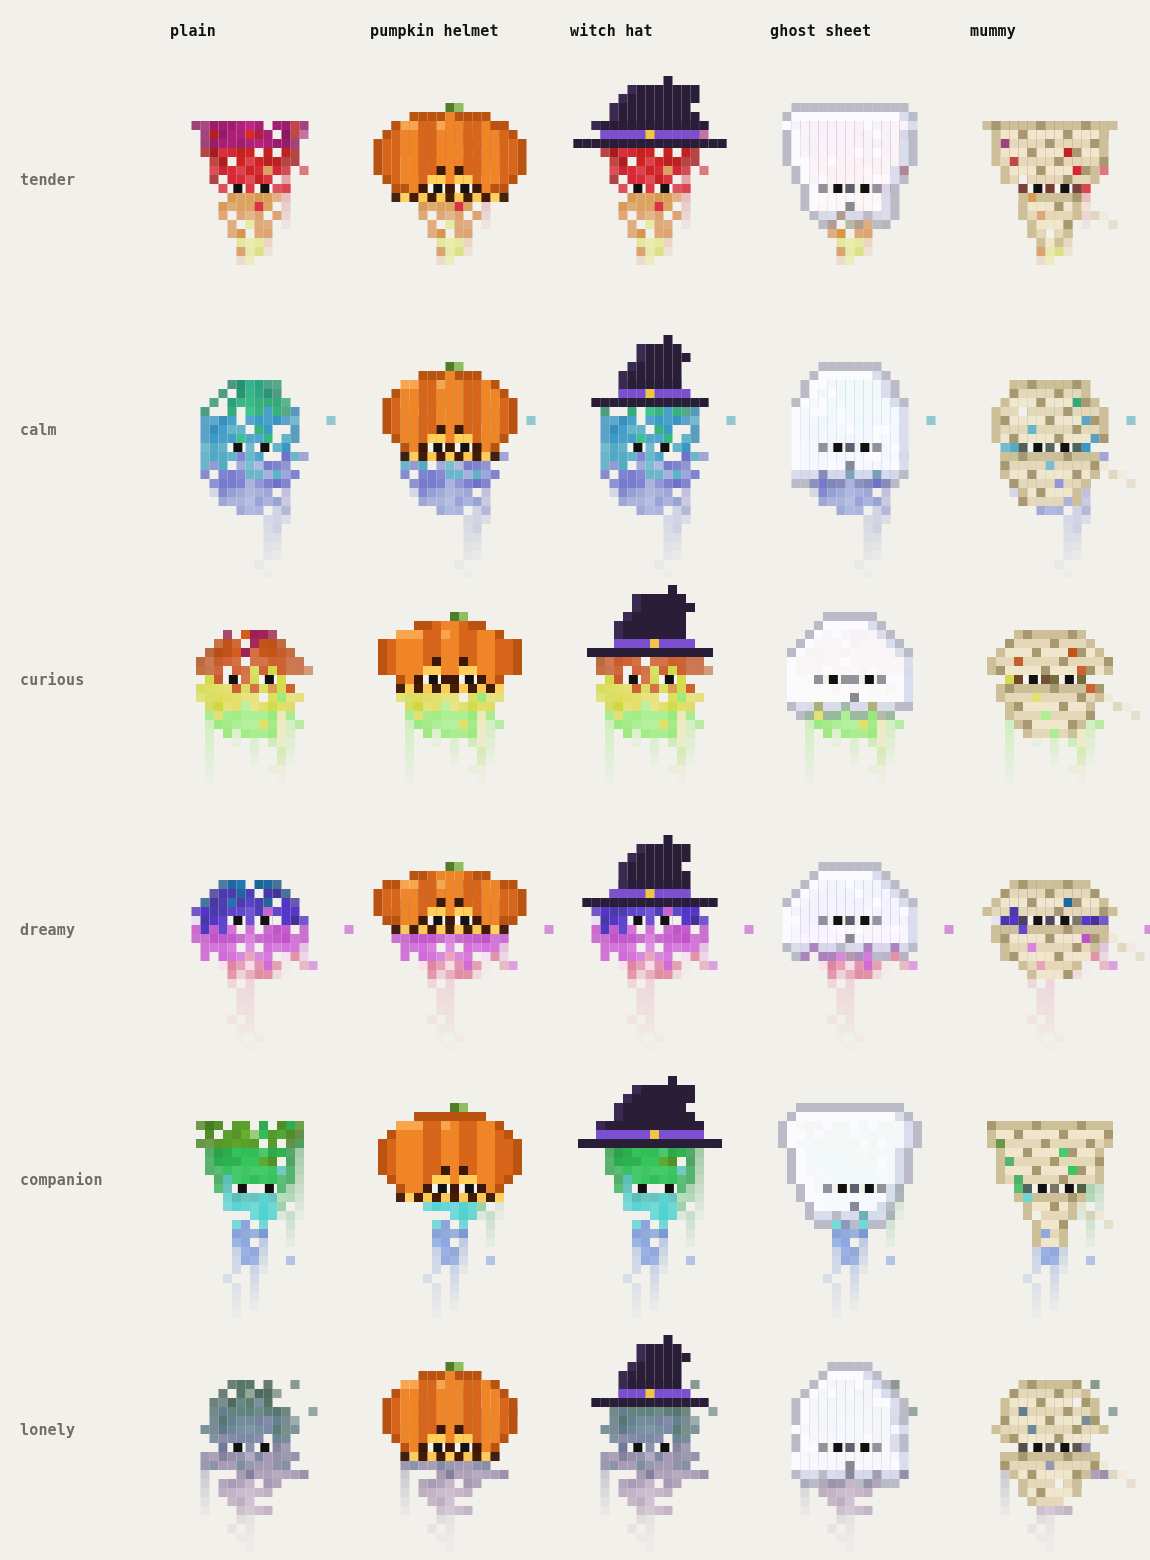
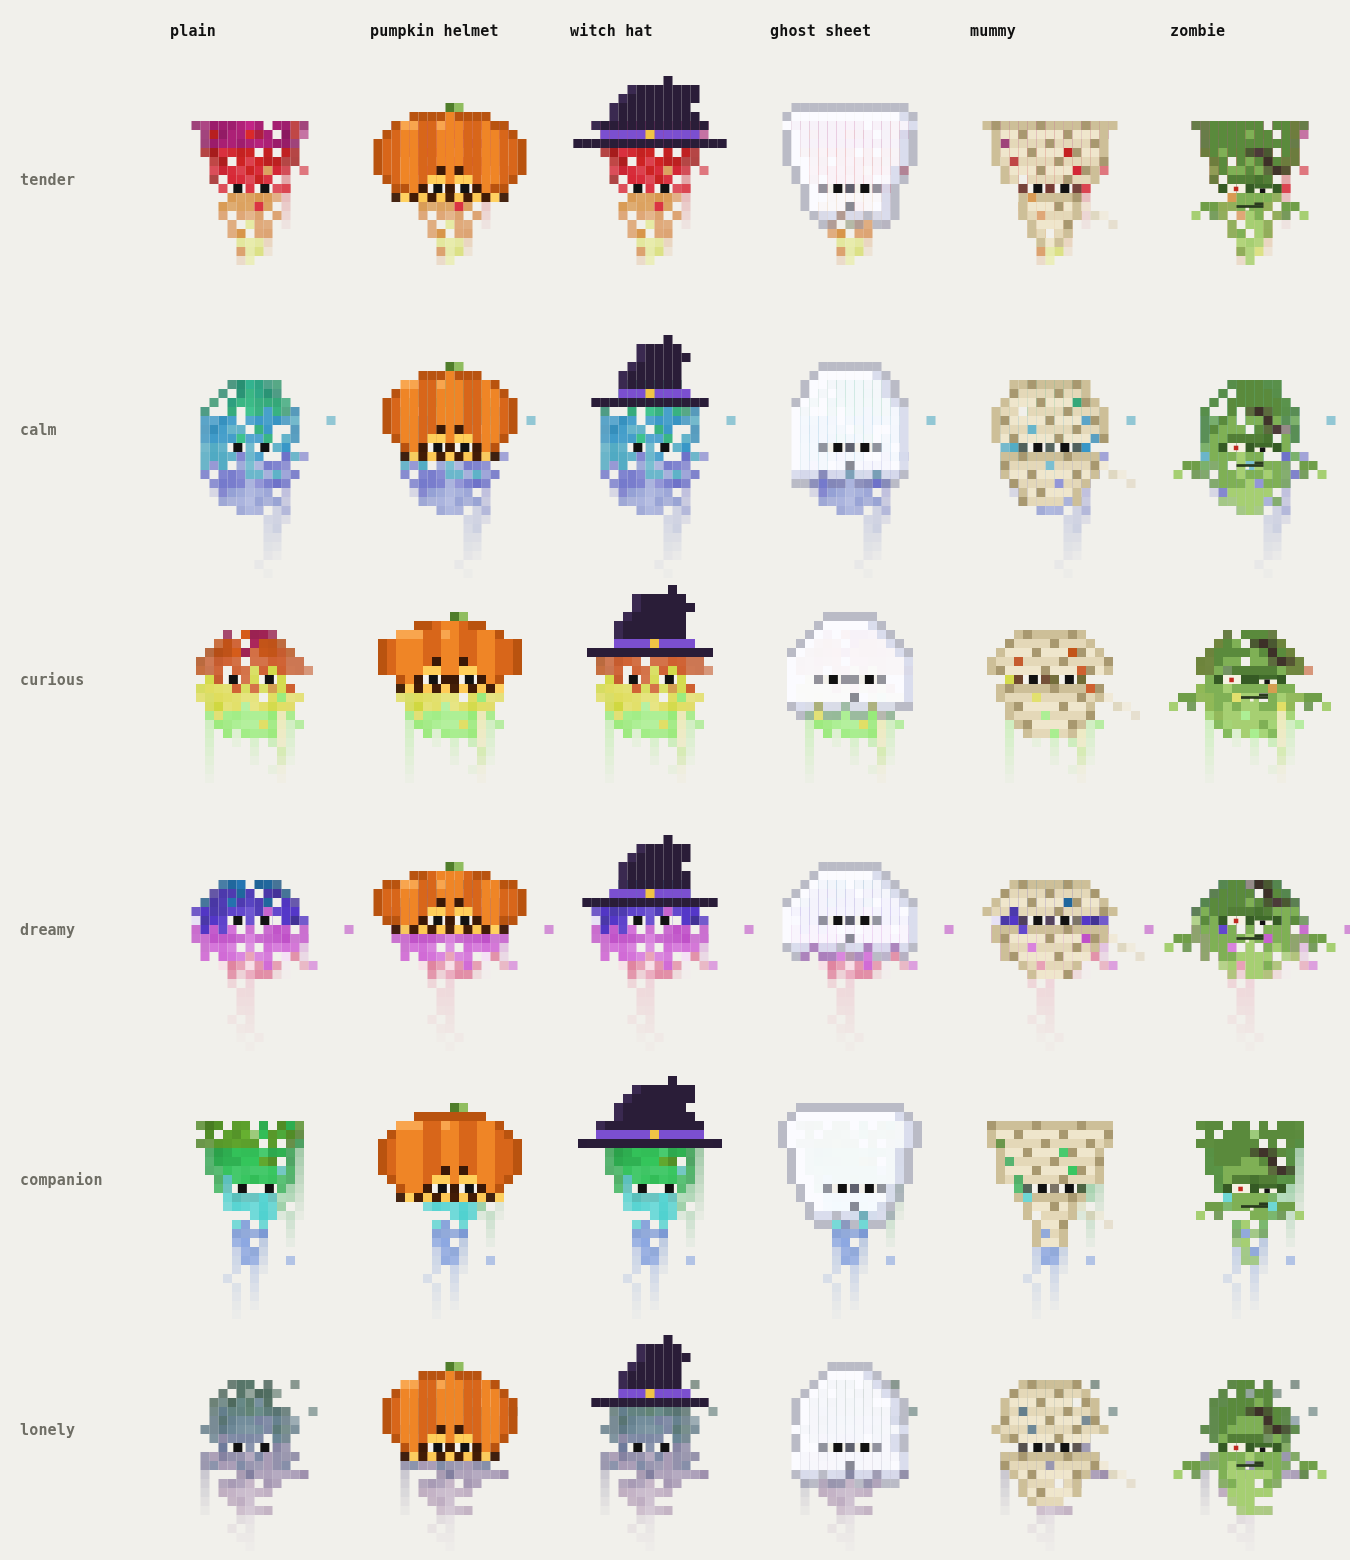
halloween: zombie back, redrawn (green skin, reaching arms, red stare, droopy lid, scar, crooked mouth)
Claude-Session: https://claude.ai/code/session_01F351BE8WNbsDJxZJegnrAN

diff --git a/src/core/halloween.ts b/src/core/halloween.ts
@@ -9,8 +9,8 @@
  */
 import type { MosaicSpec } from './mosaic';
 
-export type Costume = 'pumpkin' | 'witch' | 'ghost' | 'mummy';
-export const COSTUMES: Costume[] = ['pumpkin', 'witch', 'ghost', 'mummy'];
+export type Costume = 'pumpkin' | 'witch' | 'ghost' | 'mummy' | 'zombie';
+export const COSTUMES: Costume[] = ['pumpkin', 'witch', 'ghost', 'mummy', 'zombie'];
 
 /** rows a costume may reach above the spore's own grid (witch hat tip). */
 export const COSTUME_HEADROOM = 9;
@@ -42,6 +42,7 @@ const SPELLS: Array<[Costume, RegExp]> = [
   ['ghost', /ghost|\bboo+\b|spook|haunt|鬼|幽灵|幽靈/i],
   ['witch', /witch|wizard|spell|cauldron|巫|魔女|女巫/i],
   ['mummy', /mumm(y|ies)|pharaoh|bandage|木乃伊|法老/i],
+  ['zombie', /zombie|undead|brains?\b|walking dead|僵尸|丧尸|殭屍|喪屍/i],
 ];
 /** The costume a whispered sentence asks for (only while the egg is on). */
 export function spellCostume(text: string | undefined | null): Costume | null {
@@ -248,6 +249,60 @@ export function drawCostume(g: G, spec: MosaicSpec, ox: number, oy: number, cell
     if (rx >= 0) {
       const wob = Math.round(Math.sin(t * 2.2));
       for (let k = 1; k <= 4; k++) px(rx + k, er + 2 + (k >> 1) + (k === 4 ? wob : 0), k % 2 ? '#efe7d2' : '#d8cdb0', 0.95 - k * 0.12);
+    }
+  } else if (kind === 'zombie') {
+    // undead: clean zombie-green skin (keeping the spore's own light and
+    // shade), a few scraps of its old colour like torn clothes, arms held
+    // out in front, one staring red eye, one droopy lid, a stitched scar
+    const m = (x: number, y: number) =>
+      x >= 0 && y >= 0 && x < spec.cols && y < spec.rows && spec.mask[y * spec.cols + x];
+    for (const c of spec.cells) {
+      if (isEye(spec, c.col, c.row)) continue;
+      if ((c.col * 5 + c.row * 11) % 9 === 0 && c.row > er) continue;   // torn-clothes scraps
+      const lm = /,\s*([\d.]+)%\s*\)/.exec(c.color);
+      const l = lm ? Number(lm[1]) : 55;
+      px(c.col, c.row, l > 66 ? '#a6cf72' : l > 48 ? '#7fb055' : '#5a8a3c', c.alpha);
+    }
+    // arms reaching forward from the widest row below the eyes
+    const ay = Math.min(spec.rows - 1, er + 2);
+    let al = spec.cols, ar = -1;
+    for (let c = 0; c < spec.cols; c++) if (m(c, ay)) { al = Math.min(al, c); ar = Math.max(ar, c); }
+    if (ar >= 0) {
+      for (let k = 1; k <= 3; k++) {
+        const dy = k === 3 ? 1 : 0;                                   // hands droop a little
+        px(al - k, ay + dy, k === 3 ? '#a6cf72' : '#6f9e48');
+        px(ar + k, ay + dy, k === 3 ? '#a6cf72' : '#6f9e48');
+      }
+      px(al - 1, ay + 1, '#5a8a3c', 0.8); px(ar + 1, ay + 1, '#5a8a3c', 0.8);   // sleeve shadow
+    }
+    // eyes: left stares (white, tiny red pupil); right is half shut
+    const L = spec.eyes.L0, R = spec.eyes.R0;
+    for (const x of [L - 1, L + 2, R - 1, R + 2]) if (m(x, er)) px(x, er, '#355a24');
+    for (let x = L; x <= R + 1; x++) if (m(x, er - 1)) px(x, er - 1, '#3f6a2a', 0.7);
+    px(L, er, '#f4f1e2'); px(L + 1, er, '#f4f1e2');
+    g.globalAlpha = 1; g.fillStyle = '#c0281e';
+    g.fillRect(ox + (L + 0.7) * cell, oy + (er + 0.3) * cell, cell * 0.5, cell * 0.5);
+    px(R, er, '#f4f1e2'); px(R + 1, er, '#f4f1e2');
+    g.globalAlpha = 1; g.fillStyle = '#3f6a2a';
+    g.fillRect(ox + R * cell, oy + er * cell, cell * 2, cell * 0.5);          // droopy lid
+    g.fillStyle = '#111';
+    g.fillRect(ox + (R + 0.6) * cell, oy + (er + 0.5) * cell, cell * 0.6, cell * 0.5);
+    // short diagonal scar with cross stitches on the cap
+    const sx = Math.round(h.mid + 1), sy = Math.max(h.top + 1, er - 3);
+    for (let k = 0; k < 3; k++) {
+      if (!m(sx + k, sy + k - 1) && !m(sx + k, sy + k)) continue;
+      px(sx + k, sy + k - 1, '#3a2626', 0.9);
+      if (k !== 1) { px(sx + k - 1, sy + k - 1, '#3a2626', 0.5); px(sx + k + 1, sy + k - 1, '#3a2626', 0.5); }
+    }
+    // little mouth with one tooth
+    const my = er + 2, mx = Math.round(h.mid) - 1;
+    if (m(mx, my)) {                                                  // a thin crooked line
+      g.globalAlpha = 1; g.fillStyle = '#2a3a1f';
+      const lw = Math.max(1, cell * 0.3);
+      g.fillRect(ox + mx * cell, oy + (my + 0.35) * cell, cell * 3, lw);
+      g.fillRect(ox + (mx + 2) * cell, oy + (my + 0.35) * cell - lw, cell, lw);
+      g.fillStyle = '#f4f1e2';
+      g.fillRect(ox + (mx + 1) * cell, oy + (my + 0.35) * cell + lw, cell * 0.4, lw);   // one tooth
     }
   }
   g.restore();

diff --git a/src/components/CostumeSheet.tsx b/src/components/CostumeSheet.tsx
@@ -13,7 +13,7 @@ import type { CharId } from '../data/characters';
 const FAMILY_HUE: Record<number, number> = { 0: 24, 1: 205, 2: 32, 3: 268, 4: 158, 5: 222 };
 const FAMILY_NAME = ['tender', 'calm', 'curious', 'dreamy', 'companion', 'lonely'];
 const LABEL: Record<Costume | 'plain', string> = {
-  plain: 'plain', pumpkin: 'pumpkin helmet', witch: 'witch hat', ghost: 'ghost sheet', mummy: 'mummy',
+  plain: 'plain', pumpkin: 'pumpkin helmet', witch: 'witch hat', ghost: 'ghost sheet', mummy: 'mummy', zombie: 'zombie',
 };
 
 function spec(id: string, charId: number, k: number) {

diff --git a/src/components/LandingPoster.tsx b/src/components/LandingPoster.tsx
@@ -77,7 +77,7 @@ export function LandingPoster({ population, onEnter }: Props) {
         MYCELIUM FIELD
         <div className="landing-date">whisper a sentence<br />→ grow a specimen</div>
         {halloweenActive() && (
-          <div className="landing-date landing-hw">until mid-November, whisper a pumpkin,<br />a ghost, a witch or a mummy…</div>
+          <div className="landing-date landing-hw">until mid-November, whisper a pumpkin,<br />a ghost, a witch,<br />a mummy or a zombie…</div>
         )}
       </motion.div>
 

diff --git a/src/core/share.ts b/src/core/share.ts
@@ -58,7 +58,7 @@ export function decodeCreature(token: string): FieldCreature | null {
       rationale: p.r,
       bornAt: p.b,
       text: p.t,
-      costume: p.k === 'pumpkin' || p.k === 'witch' || p.k === 'ghost' || p.k === 'mummy' ? p.k : undefined,
+      costume: p.k === 'pumpkin' || p.k === 'witch' || p.k === 'ghost' || p.k === 'mummy' || p.k === 'zombie' ? p.k : undefined,
     };
   } catch {
     return null;
